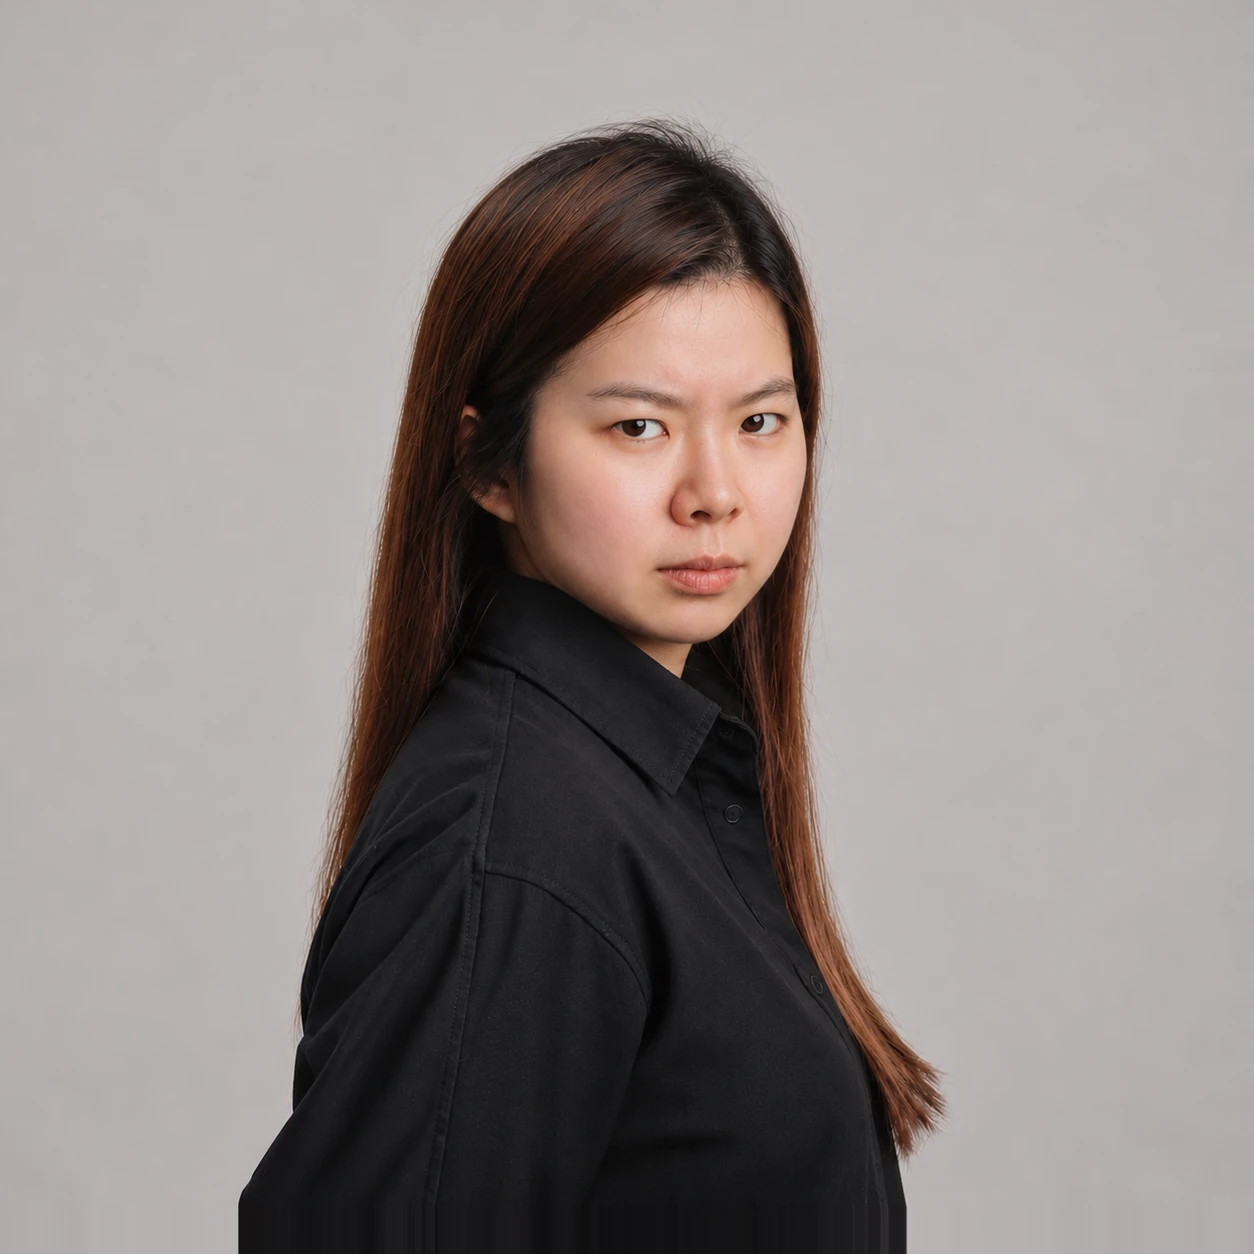
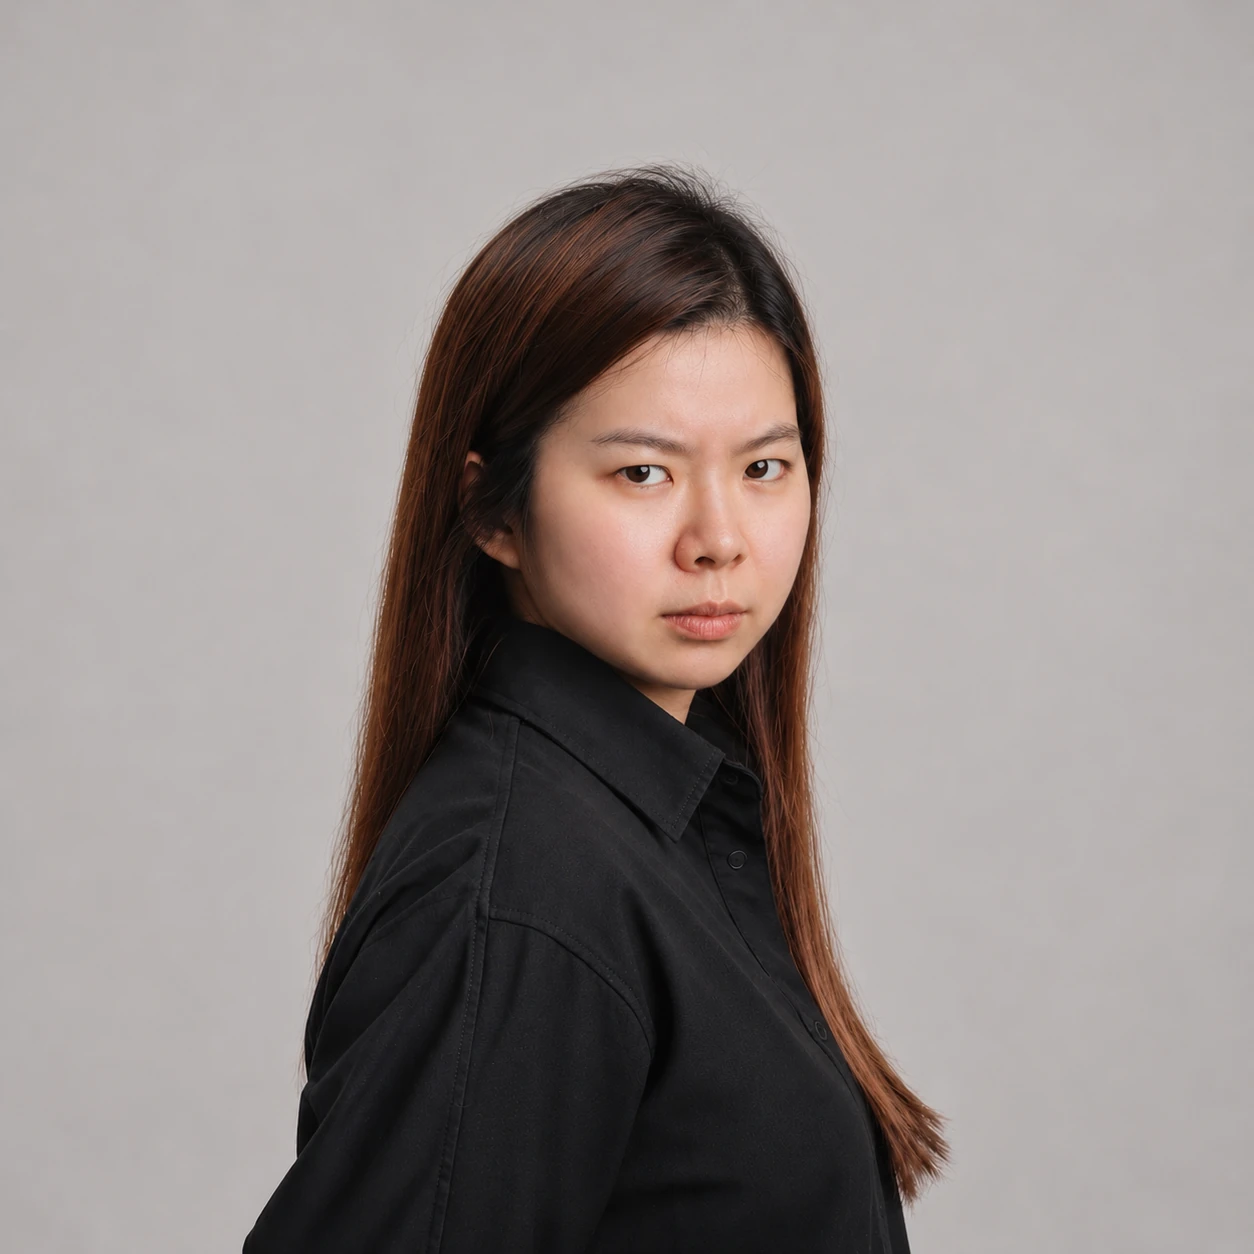
Fix full-frame portrait moods and ship supplied pinch cursor

diff --git a/components/about/portrait-cursor.tsx b/components/about/portrait-cursor.tsx
@@ -2,16 +2,24 @@ import { useEffect, useRef, type RefObject } from "react";
 import { createPortal } from "react-dom";
 
 export function PortraitCursor({ canvas }: { canvas: RefObject<HTMLCanvasElement | null> }) {
-  const svg = useRef<SVGSVGElement>(null);
+  const overlay = useRef<HTMLDivElement>(null);
+  const animated = useRef<HTMLImageElement>(null);
+  const closed = useRef<HTMLImageElement>(null);
 
   useEffect(() => {
     const surface = canvas.current;
-    const cursor = svg.current;
-    if (!surface || !cursor) return;
+    const cursor = overlay.current;
+    const animatedImage = animated.current;
+    const closedImage = closed.current;
+    if (!surface || !cursor || !animatedImage || !closedImage) return;
     const mouse = matchMedia("(hover: hover) and (pointer: fine)");
     const listeners = new AbortController();
     const options = { signal: listeners.signal };
     let held = false;
+    let decoded = false;
+    void Promise.all([animatedImage.decode(), closedImage.decode()]).then(() => {
+      decoded = true;
+    }, () => { if (!listeners.signal.aborted) hide(); });
 
     function hide() {
       held = false;
@@ -20,7 +28,7 @@ export function PortraitCursor({ canvas }: { canvas: RefObject<HTMLCanvasElement
     }
 
     const show = (event: PointerEvent) => {
-      if (!mouse.matches || event.pointerType !== "mouse") return;
+      if (!decoded || !mouse.matches || event.pointerType !== "mouse") return;
       cursor.style.setProperty("--pointer-x", `${event.clientX}px`);
       cursor.style.setProperty("--pointer-y", `${event.clientY}px`);
       cursor.dataset.state = held ? "held" : "ready";
@@ -50,11 +58,13 @@ export function PortraitCursor({ canvas }: { canvas: RefObject<HTMLCanvasElement
   }, [canvas]);
 
   return createPortal(
-    <svg ref={svg} className="about-portrait-pinch" viewBox="0 0 42 42" aria-hidden="true">
-      <path d="M34 39c-4-1-7-4-10-7l-5-6c-2-3-2-6 0-8 2-2 5-1 7 1l-2-5c-1-2 0-4 2-4s3 1 4 3l1 2c0-3 4-4 5-1l1 3c2-1 4 1 4 4l-1 8c0 4-2 8-6 10Z" />
-      <path className="about-pinch-index" d="M28 19c-2-5-6-10-11-10-3 0-5 1-5 3s2 2 4 2c3 0 5 3 6 6" />
-      <path className="about-pinch-thumb" d="M24 28c-4-2-6-5-7-9-1-2-2-3-4-3-2-1-2-3-1-4 2-2 5 0 7 1 4 2 5 6 8 7" />
-    </svg>,
+    <div ref={overlay} className="about-portrait-pinch" aria-hidden="true">
+      {/* Load both local SVGs before suppressing the native cursor. */}
+      {/* eslint-disable @next/next/no-img-element */}
+      <img ref={animated} src="/images/about/cursor/pinch-animated.svg" className="about-pinch-animated" alt="" />
+      <img ref={closed} src="/images/about/cursor/pinch-closed.svg" className="about-pinch-closed" alt="" />
+      {/* eslint-enable @next/next/no-img-element */}
+    </div>,
     document.body,
   );
 }

diff --git a/components/about/portrait.css b/components/about/portrait.css
@@ -115,37 +115,39 @@ main.about-page > .portfolio-about {
 @media (prefers-reduced-motion: reduce) { .about-portrait-hint { transition: none; } }
 
 .about-portrait-pinch {
+  /* The supplied closed pose pinches at (19, 46) on its 104-unit viewBox. */
+  --pinch-size: 48px;
   display: none;
   position: fixed;
   inset: 0 auto auto 0;
   z-index: 40;
-  width: 42px;
-  height: 42px;
-  overflow: visible;
+  width: var(--pinch-size);
+  height: var(--pinch-size);
   pointer-events: none;
-  transform: translate(calc(var(--pointer-x) - 12px), calc(var(--pointer-y) - 12px));
-  fill: var(--gravity-white);
-  stroke: var(--gravity-ink);
-  stroke-width: 1.25;
-  stroke-linecap: round;
-  stroke-linejoin: round;
+  transform: translate(
+    calc(var(--pointer-x) - var(--pinch-size) * 19 / 104),
+    calc(var(--pointer-y) - var(--pinch-size) * 46 / 104)
+  );
 }
 
-.about-pinch-index { --pinch-open: 18deg; transform-origin: 24px 19px; }
-.about-pinch-thumb { --pinch-open: -20deg; transform-origin: 25px 23px; }
+.about-portrait-pinch img {
+  position: absolute;
+  inset: 0;
+  width: 100%;
+  height: 100%;
+  visibility: hidden;
+}
 
 @media (hover: hover) and (pointer: fine) {
   .about-portrait-canvas[data-ready='true'][data-pinch-cursor] { cursor: none; }
   .about-portrait-pinch[data-state] { display: block; }
+  .about-portrait-pinch[data-state='held'] .about-pinch-closed { visibility: visible; }
 
   @media (prefers-reduced-motion: no-preference) {
-    .about-portrait-pinch[data-state='ready'] :is(.about-pinch-index, .about-pinch-thumb) {
-      animation: about-pinch 1.15s ease-in-out infinite;
-    }
+    .about-portrait-pinch[data-state='ready'] .about-pinch-animated { visibility: visible; }
   }
-}
 
-@keyframes about-pinch {
-  0%, 100% { transform: none; }
-  50% { transform: rotate(var(--pinch-open)); }
+  @media (prefers-reduced-motion: reduce) {
+    .about-portrait-pinch[data-state='ready'] .about-pinch-closed { visibility: visible; }
+  }
 }

diff --git a/components/about/portrait-renderer.ts b/components/about/portrait-renderer.ts
@@ -26,6 +26,7 @@ export async function mountPortrait(canvas: HTMLCanvasElement, onReady: (ready: 
     if (disposed || lost || !material) return;
     material.uniforms.moodTexture.value = textures[physics.mood];
     material.uniforms.blend.value = physics.blend;
+    material.uniforms.fullFrameMood.value = moods[physics.mood].fullFrame;
     material.uniforms.grab.value.set(physics.grab.x, physics.grab.y);
     material.uniforms.displacement.value.set(physics.displacement.x, physics.displacement.y);
     material.uniforms.velocity.value.set(physics.velocity.x, physics.velocity.y);
@@ -102,7 +103,7 @@ export async function mountPortrait(canvas: HTMLCanvasElement, onReady: (ready: 
     material = new THREE.ShaderMaterial({ vertexShader, fragmentShader, uniforms: {
       baseTexture: { value: textures[0] }, moodTexture: { value: textures[0] }, grimaceTexture: { value: textures[GRIMACE] },
       grab: { value: new THREE.Vector2() }, displacement: { value: new THREE.Vector2() }, velocity: { value: new THREE.Vector2() },
-      blend: { value: 0 }, radius: { value: PORTRAIT.warpRadius }, blur: { value: 0 },
+      blend: { value: 0 }, fullFrameMood: { value: false }, radius: { value: PORTRAIT.warpRadius }, blur: { value: 0 },
     } });
     scene.add(new THREE.Mesh(geometry, material)); resize(); observer.observe(canvas);
     for (const [name, listener] of [['pointerdown', down], ['pointermove', move], ['pointerup', release], ['pointercancel', release], ['lostpointercapture', release]] as const) canvas.addEventListener(name, listener);

diff --git a/components/about/portrait-moods.ts b/components/about/portrait-moods.ts
@@ -1,10 +1,11 @@
 const expressions = ['Natural, relaxed', 'One eye narrowed', 'Tense teeth-baring grimace', 'Skeptical frown', 'Concerned, parted lips', 'Pressed lips', 'Narrow-eyed doubtful', 'Stern gaze, pressed lips', 'Wide-eyed surprise', 'Raised brows, parted lips', 'Quiet, closed lips'];
 // All exported textures use the same 1254px UV frame. The replacement PNGs
-// were registered to the neutral pupils and their studio backdrop matched
-// before WebP export. The shader samples the resulting textures as-is.
-const replacementImages: Partial<Record<number, string>> = { 7: 'face07a.webp', 9: 'face09a.webp' };
+// keep the source framing, with their studio backdrop matched before export.
+// They are shown as whole portraits so their chin, neck, and collar stay together.
+const replacementImages: Partial<Record<number, string>> = { 7: 'face07a.webp?v=2', 9: 'face09a.webp?v=2' };
 export const moods = expressions.map((expression, id) => ({
   id, image: `/images/about/faces/${replacementImages[id] ?? `face${String(id).padStart(2, '0')}.webp`}`, expression,
+  fullFrame: replacementImages[id] !== undefined,
   role: id === 0 ? 'neutral' : id === 2 ? 'grimace' : 'mood',
   alignment: { scale: 1, rotation: 0, translation: [0, 0] as const, eyeLine: .345, faceCenter: [.546, .413] as const },
 }));

diff --git a/components/about/portrait-shaders.ts b/components/about/portrait-shaders.ts
@@ -6,6 +6,7 @@ varying vec2 vUv;
 uniform sampler2D baseTexture, moodTexture, grimaceTexture;
 uniform vec2 grab, displacement, velocity;
 uniform float blend, radius, blur;
+uniform bool fullFrameMood;
 // A smooth stationary velocity field. Its time-one flow defines the forward
 // smudge; integrating the negative field gives each pixel's inverse map.
 vec2 field(vec2 p){
@@ -25,6 +26,8 @@ vec3 portrait(vec2 p){
  float mask=1.-smoothstep(.65,1.15,length(f));
  vec3 mood=texture2D(moodTexture,p).rgb;
  vec3 grimace=texture2D(grimaceTexture,p).rgb;
+ // Both sampling paths reach the same covered grimace before the mood switches.
+ if (fullFrameMood) return mix(mood,mix(base,grimace,mask),blend);
  return mix(base,mix(mood,grimace,blend),mask);
 }
 void main(){
